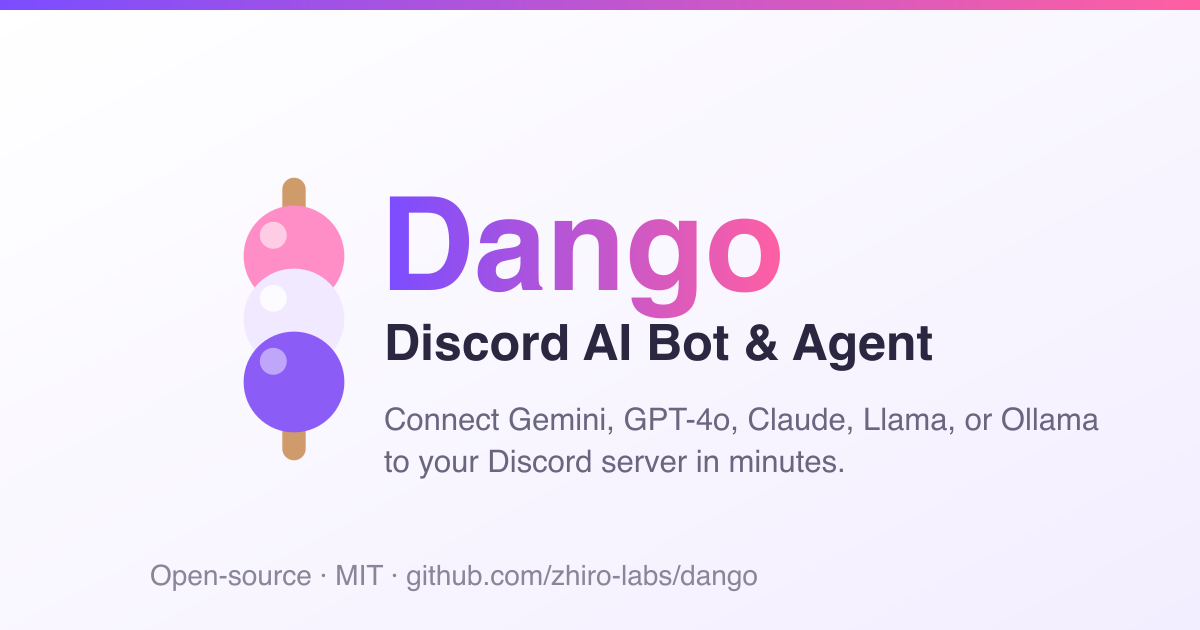
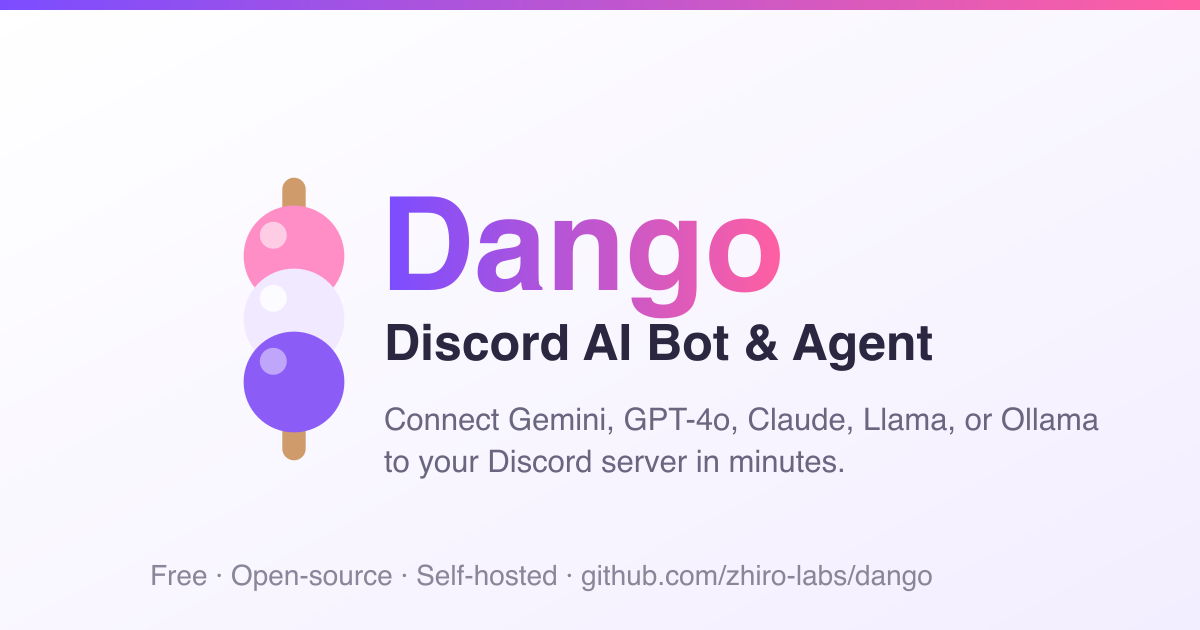
feat(docs): emphasise free, self-hosted, your own in copy
Weave the Dango brand name plus the "free", "self-hosted" and "your
own" angles through the site description, home intro/description, target
keywords, and the social card footer (Free · Open-source · Self-hosted).

Changed region(s): [[0.1233, 0.8746, 0.7708, 0.9349]]

diff --git a/docs/index.md b/docs/index.md
@@ -2,7 +2,7 @@
 layout: home
 title: "Dango — Discord AI Bot & Agent"
 titleTemplate: false
-description: "Dango is a free, open-source Discord AI bot and agent. Connect Gemini, GPT-4o, Claude, Llama, or Ollama to your Discord server in minutes — no code changes needed."
+description: "Dango is a free, open-source, self-hosted Discord AI bot and agent. Connect Gemini, GPT-4o, Claude, Llama, or Ollama and run your own Discord AI on your server in minutes — no code changes needed."
 tags:
   - Getting Started
   - Discord bot
@@ -50,7 +50,7 @@ features:
     details: Drop the Cogs into any existing discord.py bot in a few lines.
 ---
 
-**Dango** is a free, open-source **Discord AI** bot and agent built on [Agno](https://docs.agno.com). Connect any model provider — Google Gemini, GPT-4o, Claude, Llama, Groq, or local Ollama — and run a capable Discord AI chatbot and agent on your own server in minutes, with no code changes.
+**Dango** is a free, open-source, self-hosted **Discord AI** bot and agent built on [Agno](https://docs.agno.com). Connect any model provider — Google Gemini, GPT-4o, Claude, Llama, Groq, or local Ollama — and run your own Discord AI chatbot and agent on your server in minutes, with no code changes.
 
 ## Before you start
 
